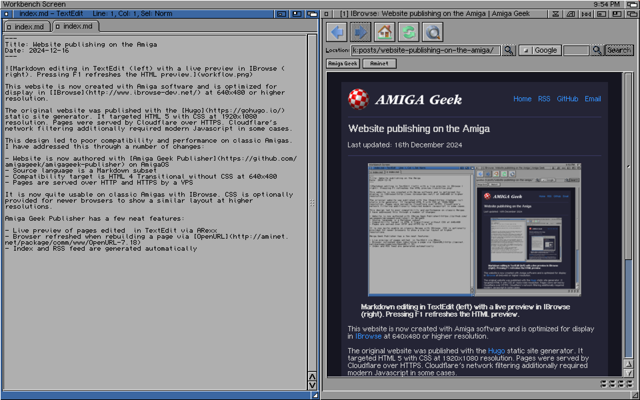
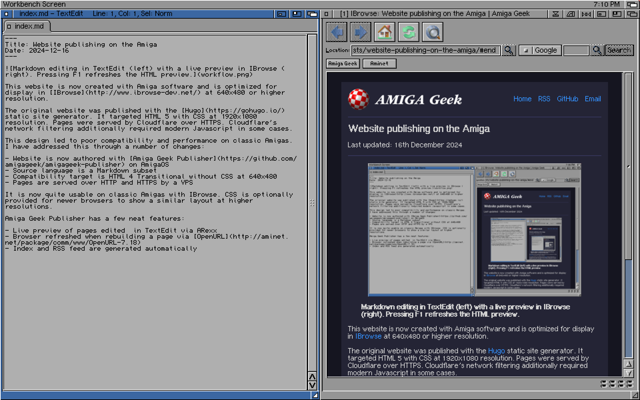
Sync with amigageek-publisher

diff --git a/posts/writing-a-game-for-the-commodore-amiga/index.html b/posts/writing-a-game-for-the-commodore-amiga/index.html
@@ -78,6 +78,7 @@
           <p><a href="/modsurfer/">ModSurfer</a> (<a href="https://www.youtube.com/watch?v=Jl_jp1rkMa8">video</a>) was my entry to the 2018 English Amiga Board game development competition. This six month contest rode a wave of renewed interest in the <a href="https://en.wikipedia.org/wiki/Amiga">Commodore Amiga</a>, a series of computers which originated in the 1980s and succeeded the very popular 8-bit Commodore 64.</p>
           <p>The game targets the Amiga 500, an entry level model launched in 1987. Sporting a 7MHz Motorola 68000, custom chips for audio, graphics, and blitting, and 1MB of RAM, the Amiga is an interesting platform to program. In this post I describe the game's architecture and some of the challenges I faced during development.</p>
           <p><a href="https://github.com/amigageek/modsurfer">Source code</a> is available for the curious.</p>
+          <a name="development_environment"></a>
           <p class="heading"><font size="+2"><b>Development environment</b></font></p>
           <p>The <a href="https://github.com/bebbo/amiga-gcc">amiga-gcc</a> cross-compiler, a fork of gcc with a m68k-amigaos backend, is used for C compiling and linking. C proved to be a productive choice for most of the game logic. Performance critical code was written in assembly using the <a href="http://sun.hasenbraten.de/vasm/">VASM</a> cross-assembler (included with amiga-gcc). VASM has a more ergonomic macro language than GAS, though I also used the latter for some inline assembly. The build system is implemented with a <a href="https://github.com/amigageek/modsurfer/blob/master/Makefile">Makefile</a>.</p>
           <center>
@@ -101,6 +102,7 @@
           <p>Debugging symbols (and profiling with gprof) are supported by newer releases of WinUAE but I did not have time to experiment with this feature. Instead, I used printf debugging and exercised the classic programmer's mantra "when in doubt, comment it out" to track down bugs. In a pure assembly project it would have been easier to make use of breakpoints and exception traps.</p>
           <p>I also tested the game on a 25 year old Amiga A1200. This revealed a few bugs with registers which had not been programmed correctly. I'm unsure whether these differences stemmed from my emulated Amiga OS configuration, or if the emulator deviated from hardware behavior.</p>
           <p>Real hardware also emphasized a display flicker issue when starting and ending the game, which was barely perceptible in emulation. To fix this I had to rewrite a signficant piece of the display code. I recommend testing regularly on hardware.</p>
+          <a name="game_plan"></a>
           <p class="heading"><font size="+2"><b>Game plan</b></font></p>
           <p>ModSurfer was inspired by the PC game <a href="https://store.steampowered.com/app/12900/AudioSurf/">AudioSurf</a>, which constructs a 3D track from an MP3 file with visual elements synchronized to sounds. The player moves left/right across three lanes, trying to hit the visual elements to score points. AudioSurf performs audio analysis on the MP3 file to construct its track.</p>
           <p>The MP3 format is too large and processor intensive to play on a base Amiga 500 (although it is playable on accelerated Amigas). Instead, most Amiga music is composed in the <a href="https://en.wikipedia.org/wiki/MOD_(file_format)">MOD</a> format. MOD is the oldest file format in the "tracker" family. Tracked music separates the audio data into short, reusable instrument samples. Timing data and effects are used to construct a song.</p>
@@ -125,6 +127,7 @@
           <p>The most basic unit of a module is the division, consisting of four 32-bit hexadecimal values. These encode a sample number, sample rate (pitch), and an effect, for each of the Amiga's four audio channels. The MOD player advances through divisions at fixed time intervals, although the interval can be changed through effects.</p>
           <p>64 divisions are organized into a pattern. A song consists of a series of pattern indexes, allowing patterns to be reused in different parts of the music.</p>
           <p>The ambitious plan I set out at the beginning of the six month development period could be summarized as: identify the lead instrument in each pattern, generate visuals synchronized with the instrument, and silence the instrument if the player is in the wrong lane when the instrument plays.</p>
+          <a name="the_menu"></a>
           <p class="heading"><font size="+2"><b>The menu</b></font></p>
           <p>The frontend of the game lets the user select a MOD file to play from their filesystem (floppy or hard disk). Amiga OS has a sophisticated (for its time) GUI subsystem called <a href="https://en.wikipedia.org/wiki/Intuition_(Amiga)">Intuition</a>. Later revisions of the OS supported quite elaborate GUI toolkits. The base Amiga 500, however, has a fairly limited one. I decided to go old-school and create a GUI from scratch, using graphics and input events.</p>
           <center>
@@ -148,6 +151,7 @@
           <p>Menu graphics rely heavily on the Amiga's blitter processor. Line drawing and filling are hardware features. Text is formed by blitting from a character map to the screen. The blitter handles shifts and masks across the 16-bit words efficiently.</p>
           <p>Mouse and keyboard input are received through a high-priority input handler. The Amiga OS has a microkernel architecture. Tasks communicate efficiently through unprotected, shared physical memory. One of these tasks is the <a href="https://wiki.amigaos.net/wiki/Input_Device">input device</a>. This task allows programs to receive (and steal) input events from the hardware.</p>
           <p>The filesystem is supported by another task, the DOS device. This provides an abstract path hierarchy to hide the details of floppy and hard disk hardware. Amiga almost had a Unix-derived disk operating system, but one of Commodore's (many) failings led to it being replaced by the less desirable <a href="https://en.wikipedia.org/wiki/TRIPOS">TRIPOS</a>.</p>
+          <a name="banging_the_hardware"></a>
           <p class="heading"><font size="+2"><b>Banging the hardware</b></font></p>
           <p>In contrast to the menu, which is an OS-friendly task, the game itself bypasses all OS abstractions, including task switching. This was common in many Amiga games because the computer's limited capabilities led to a very tight performance budget. Any abstraction overhead or task switching jitter could cause a missed frame.</p>
           <p>This brings me to my favorite part of Amiga programming. Here's a snippet of code from the game:</p>
@@ -196,6 +200,7 @@ custom.bltsize = (copy_h << BLTSIZE_H0_SHF) | width_words;</font></pre>
           </table>
           <p>The first line waits for a specific scanline of the display. The following three lines configure a horizontal shift for the bitmap. The remaining lines modify the palette to select 6 arbitrary colors per scanline.</p>
           <p>ModSurfer exploits this processor for pseudo 3D (explained later) and palette changes, to get more than 50 different colors with an 8 color palette.</p>
+          <a name="audio_analysis"></a>
           <p class="heading"><font size="+2"><b>Audio analysis</b></font></p>
           <p>Two criteria are used to identify lead instruments, both varying per-pattern: average pitch and play count. The game assigns a score to each instrument played in the pattern and selects the best candidate.</p>
           <p>Play count is easily derived from the pattern data. It is used to avoid instruments with few notes per pattern. This keeps the gameplay interesting even if the pitch suggests it might be a lead instrument. This forms one part of the instrument's score.</p>
@@ -221,6 +226,7 @@ custom.bltsize = (copy_h << BLTSIZE_H0_SHF) | width_words;</font></pre>
           </table>
           <p>A Fourier transform is applied to the sample data to derive its frequency spectrum. 512 samples from each instrument are passed through a 16-bit fixed-point FFT. The highest peak denotes the dominant frequency. The algorithm completes for all instruments in under 5 seconds on large MODs. This is fast but not particularly resilient. I would have preferred to average multiple peaks.</p>
           <p>Finally, the dominant frequency is combined with the per-pattern average sample rate. This is compared to a fixed pitch approximating lead instruments, between bass and percussion. A closer match gives a better score. It isn't infallible but is much more effective than I expected.</p>
+          <a name="pseudo_3d"></a>
           <p class="heading"><font size="+2"><b>Pseudo 3D</b></font></p>
           <p>Fast rhythm games need responsive visuals and input. To achieve this I set a hard frame rate target of 50 FPS (matching the 50Hz PAL standard). I also wanted the game to have 3D graphics. A high frame rate, however, is very difficult to achieve in 3D games on the Amiga 500.</p>
           <p>The solution employs some <a href="http://www.extentofthejam.com/pseudo/">pseudo 3D</a> trickery, common to many games of the Amiga's era. Perspective is simulated by shifting scanlines to the left or right, with larger shifts nearer the camera. Scanline shifting was fast and commonly available in computers of the time. 3D calculations are done in fixed-point, and perspective divide is implemented with lookup tables to minimize CPU load.</p>
@@ -260,6 +266,7 @@ custom.bltsize = (copy_h << BLTSIZE_H0_SHF) | width_words;</font></pre>
               </td>
             </tr>
           </table>
+          <a name="animating_the_tiles"></a>
           <p class="heading"><font size="+2"><b>Animating the tiles</b></font></p>
           <p>Visual tiles represent notes of the lead instrument. As the music proceeds the tiles approach in different lanes. These would be quite challenging to display as sprites, due to their number and varying scanline shifts. They would also be expensive to clear and redraw on every frame.</p>
           <center>
@@ -301,6 +308,7 @@ custom.bltsize = (copy_h << BLTSIZE_H0_SHF) | width_words;</font></pre>
             </tr>
           </table>
           <p>This is a very efficient method to change large parts of the screen on every frame. The CPU recalculates the colors to appear on each scanline and writes them into the copper's program. This allows the copper to make precisely timed color changes, as the raster proceeds down the screen, without tying up the CPU. The program is "double-buffered", changing an unused copy while the copper runs.</p>
+          <a name="color_cycling"></a>
           <p class="heading"><font size="+2"><b>Color cycling</b></font></p>
           <p>The final visual element is the ball. This graphic was inspired by the <a href="https://amiga.lychesis.net/special/ColorCycling/Boing.html">Boing Ball</a>, a famous early Amiga animated demo and Amiga's mascot. Its rotation animation is achieved by changing colors in the palette. The sprite bitmap does not change.</p>
           <p>In ModSurfer the ball is implemented with four sprites. Two 16x32 pixel 2-bitplane sprites combine horizontally to form a 32x32 ball. Two more sprites combine with these to make a 4-bitplane, 16-color "attached" 32x32 sprite. This large number of colors is necessary for the color cycling effect.</p>
@@ -324,10 +332,12 @@ custom.bltsize = (copy_h << BLTSIZE_H0_SHF) | width_words;</font></pre>
           </table>
           <p>14 colors are used in total, 7 red and 7 white. Solid areas of color are in fact gradients of these 14 colors, as illustrated in the diagram above. As the palette shifts, the red/white boundaries move, giving the illusion of forwards rotation.</p>
           <p>Gradients in the sprite bitmap are spaced so that they move faster where the ball is further from the camera. Frames of left/right rotation are generated by a miniature ray tracer at build time, which also encodes the color gradients.</p>
+          <a name="audio_playback"></a>
           <p class="heading"><font size="+2"><b>Audio playback</b></font></p>
           <p>MOD interpretation and audio rendering are largely handled by the open source <a href="http://aminet.net/package/mus/play/ptplayer">ptplayer</a> library. This saved a lot of time during development, allowing me to focus on the gameplay and visuals. I did, however, make some small changes to the library to assist gameplay.</p>
           <p>ptplayer runs in a timer interrupt to support MODs with fine timing requirements. This made it challenging to synchronize with the visuals. I settled on a method which resets the camera position each time ptplayer advances one division in the MOD. Frames in-between use an interpolated position calculation, based on the current speed, for smooth motion. In practice this worked flawlessly for music of all speeds.</p>
           <p>To make the game more interactive I wanted to silence an instrument when the player missed the corresponding tile. The other instruments would remain audible. I achieved this with a simple hook into the ptplayer code, providing the number of the next sample to be silenced. If the player hits the tile in time then this value is reset.</p>
+          <a name="conclusion"></a>
           <p class="heading"><font size="+2"><b>Conclusion</b></font></p>
           <p>I really enjoyed the time I spent on the game development contest. ModSurfer worked out much better than I'd hoped, given its uncertain algorithmic basis. It's fun and quite addictive with faster music. Learning to program the Amiga hardware was an indulgent return to my programming roots. I understand why we moved towards a world of software abstractions but, my goodness, the old world was so much fun!</p>
         </td>

diff --git a/posts/rendering-a-boing-ball-in-lightwave-3d/index.html b/posts/rendering-a-boing-ball-in-lightwave-3d/index.html
@@ -77,6 +77,7 @@
           </table>
           <p>I recently found myself in need of an Amiga-inspired avatar. The Boing Ball seemed an obvious choice. Made famous by a <a href="https://www.youtube.com/watch?v=YlAhRJjOhDg">1984 CES demo</a>, the Boing Ball set the scene for Amiga's dominance in real-time graphics and OS multitasking. Here's a short <a href="https://amiga.lychesis.net/artist/DaleLuck/Boing.html">deconstruction</a> of how the effect worked.</p>
           <p>Briefly revisiting the venerable Amiga ray tracer Imagine 3D, the nostalgia was strong. My younger self spent many hours modeling, texturing, and rendering scenes in Imagine. The user interface was not very intuitive, though. I decided to try something a little more modern.</p>
+          <a name="lightwave_3d"></a>
           <p class="heading"><font size="+2"><b>Lightwave 3D</b></font></p>
           <p>Newtek's Lightwave 3D was a ray tracing package originally shipped with their popular <a href="https://arstechnica.com/gadgets/2016/03/a-history-of-the-amiga-part-9-the-video-toaster/">Video Toaster</a> hardware. The Toaster was expensive and required a powerful Amiga, mostly limiting its use to professional users of the time. Emulation has made this tool much more accessible to retro enthusiasts.</p>
           <center>
@@ -114,6 +115,7 @@ jit_compiler = 1</font></pre>
           <p>The FS-UAE build must include JIT support. The Arch Linux package <a href="https://git.archlinux.org/svntogit/community.git/tree/trunk/PKGBUILD?h=packages/fs-uae">disables JIT</a>, which tripped me up. I chose to build FS-UAE from source instead. The binary download also includes JIT support.</p>
           <p>I installed the Lightwave package <b>LW50r_Incl.CDContent.lha</b> and downloaded the manual <b>Video.Toaster.4000_LW5-Manual.pdf</b>. Both of these can be found on the EAB FTP.</p>
           <p>Lightwave consists of two separate programs: Modeler and Layout. I started out in Modeler to create the Boing Ball mesh.</p>
+          <a name="modeler"></a>
           <p class="heading"><font size="+2"><b>Modeler</b></font></p>
           <center>
             <div class="image" style="content: url(modeler.png); width: 672px; height: 546px">
@@ -135,6 +137,7 @@ jit_compiler = 1</font></pre>
           <p>At first glance the Modeler seems a bit spartan. This is where all mesh editing is done and I expected to see a little more. However, the buttons along the top switch in different panels on the left. Several buttons also conceal pop-up windows. There's a lot more going on here.</p>
           <p>I clicked the button conveniently named Ball and drew out a square in the top and side views with Ctrl-Click-Drag. The Numeric button pops up a window to set the number of sides and vertical segments. I set these to 100 to get a reasonably spherical mesh. I could not find an option for non-polygonal spheres.</p>
           <p>Our brief stop by the Modeler is complete. The object can now be saved out for loading into the Layout program.</p>
+          <a name="layout"></a>
           <p class="heading"><font size="+2"><b>Layout</b></font></p>
           <center>
             <div class="image" style="content: url(layout.png); width: 672px; height: 546px">
@@ -210,6 +213,7 @@ jit_compiler = 1</font></pre>
               <td class="hspace2" width="20"></td>
             </tr>
           </table>
+          <a name="composition"></a>
           <p class="heading"><font size="+2"><b>Composition</b></font></p>
           <p>The Lightwave render consists of two files: 24-bit RGB and 8-bit alpha ILBM images. The alpha channel defines transparency in the color image. This would normally be used for compositing a foreground and background image, or to overlay a rendered animation onto video.</p>
           <p>In my case I wanted a 32-bit PNG with transparency to use on the web. I was unable to locate an Amiga program which could output this. Instead I cheated a little and used Imagemagick with the following command:</p>

diff --git a/page.html b/page.html
@@ -46,11 +46,7 @@
       <tr>
         <td class="hrule" height="1" bgcolor="#383860"></td>
       </tr>
-      <tr>
-        <td class="content">
-$BODY        </td>
-      </tr>
-    </table>
+$BODY    </table>
     <table cellspacing="0" cellpadding="0">
       <tr>
         <td class="vspace" height="10"></td>
